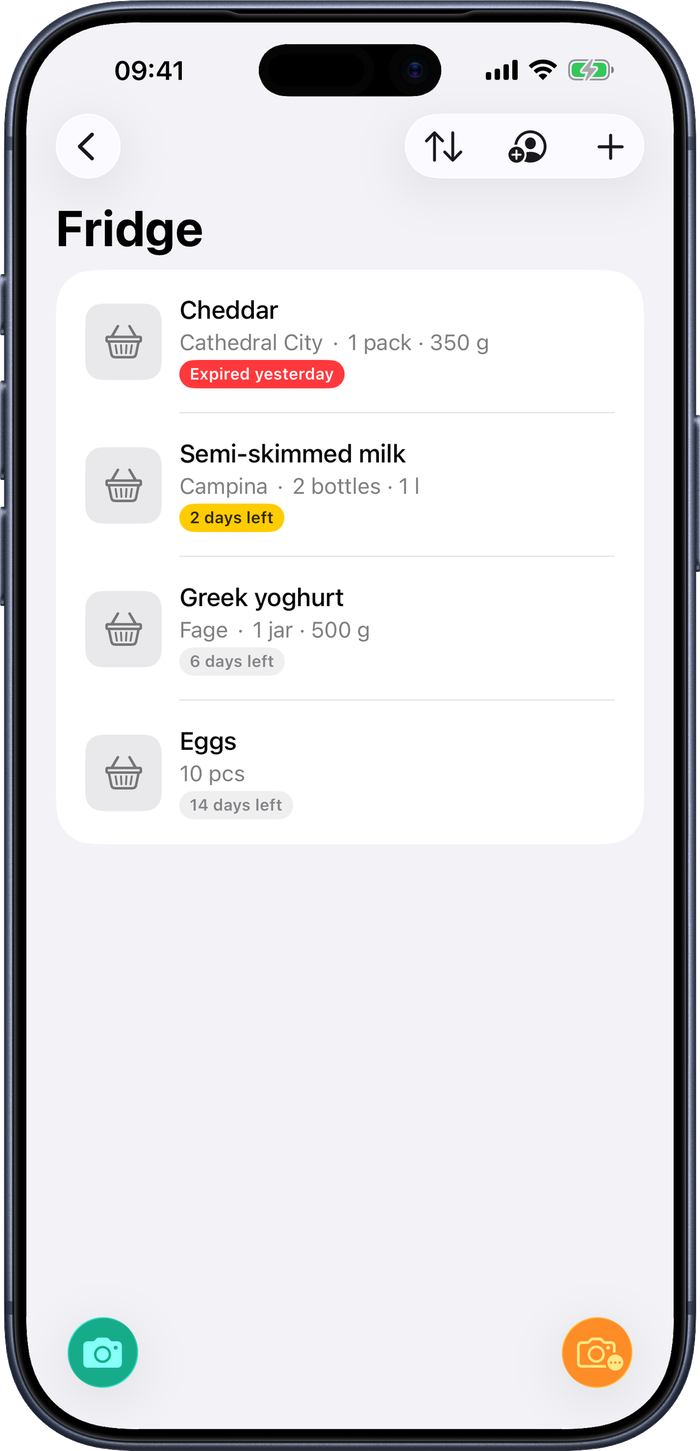
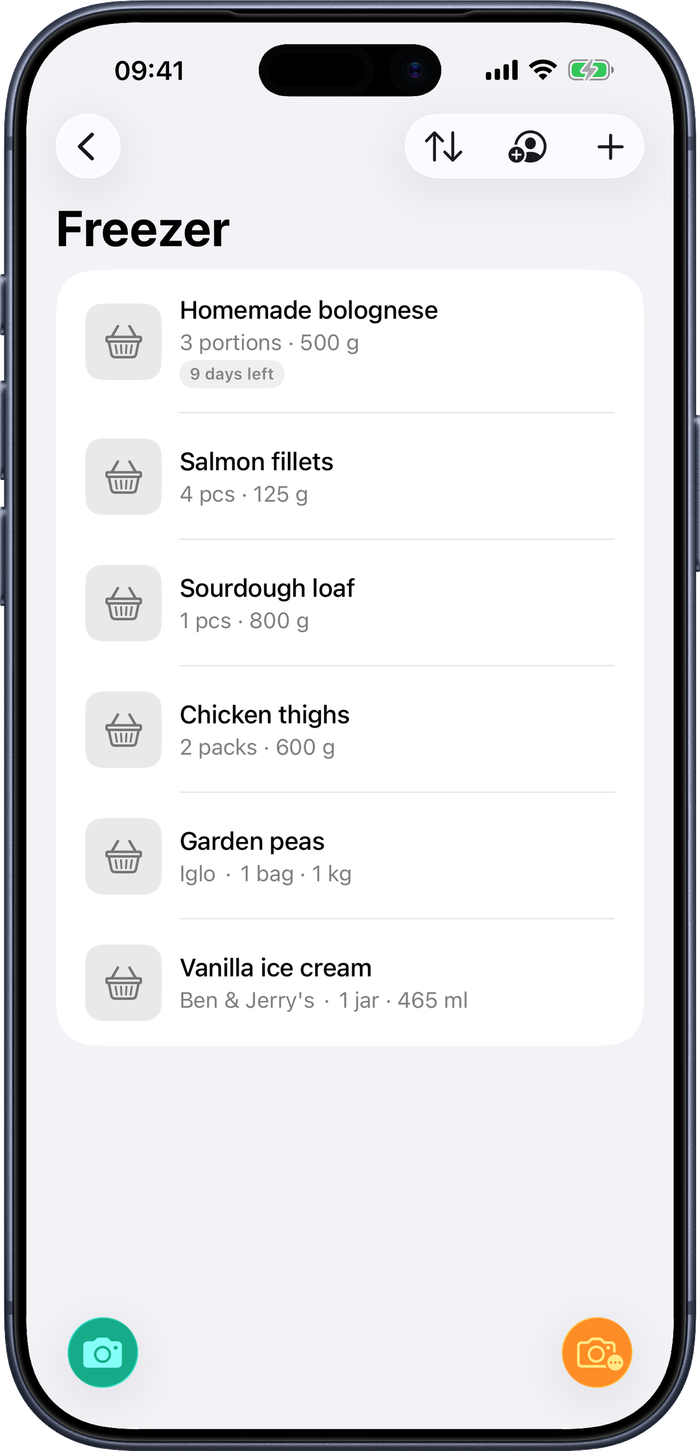
- lead SupplyBrain copy with the freezer and pantry: hero, home section, meta, closing CTA (EN and NL) - reframe the SupplyBrain screenshots from the freezer-first capture

diff --git a/index.html b/index.html
@@ -67,7 +67,7 @@
     *,*::before,*::after{box-sizing:border-box}*{margin:0}html{scroll-behavior:smooth}body{font-family:"DM Sans",sans-serif;color:#17202a;background:#f7f8f5;line-height:1.65;-webkit-font-smoothing:antialiased}img{display:block;max-width:100%}a{color:inherit;text-decoration:none}button{font:inherit}.wrap{width:min(1180px,calc(100% - 48px));margin-inline:auto}.eyebrow{font-size:.76rem;font-weight:700;letter-spacing:.14em;text-transform:uppercase;color:#506757}.section-head{display:flex;align-items:end;justify-content:space-between;gap:32px;margin-bottom:40px}.section-head h2{font:800 clamp(2rem,4vw,3.5rem)/1.05 "Manrope",sans-serif;letter-spacing:-.05em;max-width:700px}.section-head p{color:#657068;max-width:430px}.pill{display:inline-flex;align-items:center;gap:8px;padding:8px 12px;border:1px solid rgba(24,45,31,.12);border-radius:99px;font-size:.76rem;font-weight:700;letter-spacing:.05em;text-transform:uppercase;background:rgba(255,255,255,.55)}.pill::before{content:"";width:7px;height:7px;border-radius:50%;background:#5e7e67}.btn{display:inline-flex;justify-content:center;align-items:center;min-height:48px;padding:0 20px;border-radius:12px;font-weight:700;transition:transform .2s,background .2s,border-color .2s}.btn:hover{transform:translateY(-2px)}.btn-dark{background:#16231a;color:#fff}.btn-light{background:#fff;border:1px solid #dce1dc}.text-link{font-weight:700;border-bottom:1px solid currentColor;padding-bottom:2px}.skip{position:absolute;left:-9999px}.skip:focus{left:12px;top:12px;background:#fff;padding:10px;z-index:999}
     nav{position:absolute;inset:0 0 auto;z-index:10}.nav-inner{height:86px;display:flex;align-items:center;justify-content:space-between}.brand{display:flex;align-items:center;gap:12px;font:800 1rem "Manrope",sans-serif}.brand img{width:38px;height:38px;object-fit:contain}.nav-links{display:flex;align-items:center;gap:28px;list-style:none;font-size:.9rem;font-weight:600}.nav-links a{opacity:.72}.nav-links a:hover{opacity:1}.nav-contact{padding:10px 15px;border:1px solid rgba(23,32,42,.16);border-radius:10px}.menu{display:none;background:none;border:0;padding:8px;cursor:pointer}.menu span{display:block;width:23px;height:2px;background:#17202a;margin:5px}
     .hero{min-height:760px;padding:150px 0 90px;background:#e7ede5;position:relative;overflow:hidden}.hero::before{content:"";position:absolute;width:760px;height:760px;border-radius:50%;background:#d4dfd2;right:-190px;top:-280px}.hero::after{content:"";position:absolute;width:350px;height:350px;border:1px solid rgba(37,70,45,.12);border-radius:50%;right:12%;bottom:-210px}.hero-grid{position:relative;z-index:1;display:grid;grid-template-columns:1.05fr .95fr;align-items:center;gap:80px}.hero h1{font:800 clamp(3.5rem,7vw,6.4rem)/.93 "Manrope",sans-serif;letter-spacing:-.075em;max-width:730px;margin:24px 0 28px}.hero-copy>p{font-size:clamp(1.06rem,1.8vw,1.3rem);color:#4f5d53;max-width:590px}.hero-actions{display:flex;gap:12px;flex-wrap:wrap;margin-top:34px}.hero-visual{position:relative;min-height:490px}.hero-card{position:absolute;border-radius:25px;box-shadow:0 25px 70px rgba(32,50,38,.18);overflow:hidden}.hero-card img{width:100%;height:100%;object-fit:cover}.hero-card-main{inset:20px 50px 20px 0;background:#15261b;transform:rotate(-2deg);padding:22px}.hero-card-main img{object-fit:contain;border-radius:14px}.hero-card-small{width:185px;height:305px;right:0;bottom:-8px;background:#fbfcfa;padding:10px;transform:rotate(5deg)}.hero-card-small img{object-fit:cover;object-position:top;border-radius:16px}.floating-note{position:absolute;top:0;right:10px;z-index:3;background:#fff;padding:13px 16px;border-radius:14px;box-shadow:0 16px 40px rgba(32,50,38,.12);font-size:.82rem;font-weight:700}.floating-note span{color:#607267;font-weight:500;display:block}
-    .featured{padding:110px 0}.featured-card{display:grid;grid-template-columns:.92fr 1.08fr;min-height:590px;background:#17231b;color:#fff;border-radius:30px;overflow:hidden}.feature-copy{padding:64px;display:flex;flex-direction:column;align-items:start;justify-content:center}.feature-copy .eyebrow{color:#9bb2a0}.feature-copy h3{font:800 clamp(2.6rem,5vw,4.5rem)/1 "Manrope",sans-serif;letter-spacing:-.055em;margin:16px 0}.feature-copy>p{color:#c4cec7;font-size:1.12rem;max-width:470px}.feature-list{display:flex;flex-wrap:wrap;gap:8px;margin:30px 0 35px}.feature-list span{padding:7px 11px;background:rgba(255,255,255,.08);border-radius:99px;font-size:.78rem}.feature-copy .btn{background:#f7f8f5;color:#17231b}.feature-image{display:flex;align-items:center;justify-content:center;padding:50px;background:radial-gradient(circle at 50% 45%,#557460 0,#2b4433 45%,#203027 70%)}.feature-image img{filter:drop-shadow(0 28px 36px rgba(0,0,0,.38));max-height:490px;object-fit:contain}.feature-image.paw{background:radial-gradient(circle at 50% 45%,#2c5480 0,#20395b 55%,#182b45 100%)}.feature-image.paw img{border-radius:18px}.feature-image.pdp{background:radial-gradient(circle at 50% 45%,#a8735a 0,#6e4636 55%,#452b21 100%)}.feature-image.pdp img{border-radius:18px}.feature-image.sb{gap:18px;background:radial-gradient(circle at 50% 45%,#2fae98 0,#0e7a6a 55%,#0a4f45 100%)}.feature-image.sb img{border-radius:18px;max-width:calc(50% - 9px);min-width:0}
+    .featured{padding:110px 0}.featured-card{display:grid;grid-template-columns:.92fr 1.08fr;min-height:590px;background:#17231b;color:#fff;border-radius:30px;overflow:hidden}.feature-copy{padding:64px;display:flex;flex-direction:column;align-items:start;justify-content:center}.feature-copy .eyebrow{color:#9bb2a0}.feature-copy h3{font:800 clamp(2.6rem,5vw,4.5rem)/1 "Manrope",sans-serif;letter-spacing:-.055em;margin:16px 0}.feature-copy>p{color:#c4cec7;font-size:1.12rem;max-width:470px}.feature-list{display:flex;flex-wrap:wrap;gap:8px;margin:30px 0 35px}.feature-list span{padding:7px 11px;background:rgba(255,255,255,.08);border-radius:99px;font-size:.78rem}.feature-copy .btn{background:#f7f8f5;color:#17231b}.feature-image{display:flex;align-items:center;justify-content:center;padding:50px;background:radial-gradient(circle at 50% 45%,#557460 0,#2b4433 45%,#203027 70%)}.feature-image img{filter:drop-shadow(0 28px 36px rgba(0,0,0,.38));max-height:490px;object-fit:contain}.feature-image.paw{background:radial-gradient(circle at 50% 45%,#2c5480 0,#20395b 55%,#182b45 100%)}.feature-image.paw img{border-radius:18px}.feature-image.pdp{background:radial-gradient(circle at 50% 45%,#a8735a 0,#6e4636 55%,#452b21 100%)}.feature-image.pdp img{border-radius:18px}.feature-image.sb{gap:18px;background:radial-gradient(circle at 50% 45%,#2fae98 0,#0e7a6a 55%,#0a4f45 100%)}.feature-image.sb img{max-width:calc(50% - 9px);min-width:0}
     .apps{padding:20px 0 115px}.app-grid{display:grid;grid-template-columns:repeat(3,1fr);gap:22px}.app-card{display:flex;flex-direction:column;background:#fff;border:1px solid #e2e5e0;border-radius:22px;overflow:hidden;transition:transform .25s,box-shadow .25s}.app-card:hover{transform:translateY(-5px);box-shadow:0 24px 55px rgba(24,45,31,.1)}.app-art{height:280px;padding:25px;position:relative;overflow:hidden}.app-art img{height:100%;width:100%;object-fit:contain;position:relative;z-index:1;filter:drop-shadow(0 18px 25px rgba(0,0,0,.18))}.app-art.pdp{background:#f2ebe5}.app-art.paw{background:#e9eee6}.app-art.catchmatch{background:#fbe9e7}.app-art.claudget{background:#fbefe4}.app-art.ghostplug{background:#eceafb}.abstract-icon{height:100%;display:grid;place-items:center;position:relative}.abstract-icon .glyph{width:130px;height:130px;border-radius:30px;display:grid;place-items:center;font:800 3rem "Manrope";box-shadow:0 20px 35px rgba(35,42,56,.2)}.unfold .glyph{background:linear-gradient(145deg,#333849,#11141c);color:#e6e8f2}.unfold .glyph::after{content:"";width:42px;height:54px;border:4px solid currentColor;border-top-width:13px;border-radius:7px}.paw .glyph{background:linear-gradient(145deg,#738b68,#2e4934);color:#fff}.paw .glyph::after{content:"●  ●";letter-spacing:9px;font-size:1.1rem}.listsweep .glyph{background:linear-gradient(145deg,#3a7bd5,#0a84ff);color:#fff}.listsweep .glyph::after{content:"↺";font-size:3.4rem;font-weight:300;line-height:1}.app-body{padding:27px;display:flex;flex-direction:column;flex:1}.app-top{display:flex;justify-content:space-between;align-items:center;gap:12px}.app-body h3{font:800 1.5rem "Manrope";letter-spacing:-.035em}.app-body>p{color:#667169;margin:13px 0 24px}.app-body .text-link{margin-top:auto;align-self:flex-start}.status{white-space:nowrap;font-size:.7rem;font-weight:700;text-transform:uppercase;letter-spacing:.08em;color:#5e7164}.status.live{color:#24653a}.app-card.clickable{position:relative;cursor:pointer}.app-card.clickable .text-link::after{content:"";position:absolute;inset:0;z-index:2;border-radius:22px}.app-card.clickable:focus-within{outline:3px solid #506757;outline-offset:3px}.app-card.clickable .text-link:focus{outline:none}.other-apps{padding-bottom:40px}
     .app-card.sd{background:#101412;border-color:#1f2622}.app-card.sd:hover{box-shadow:0 24px 55px rgba(120,24,16,.28),0 0 0 1px rgba(214,92,58,.35)}.app-art.sd-art{padding:0;background:#101412}.app-art.sd-art img{position:absolute;inset:0;width:100%;height:100%;object-fit:cover;filter:none;transform:scale(1.02);transition:transform 1.2s ease,filter .6s}.app-art.sd-art::after{content:"";position:absolute;inset:0;background:linear-gradient(180deg,rgba(16,20,18,0) 55%,#101412 100%)}.app-card.sd:hover .sd-art img{transform:scale(1.09);filter:saturate(1.15) brightness(1.05)}.app-card.sd h3{color:#fff}.app-card.sd .app-body>p{color:#b5bdb6}.app-card.sd .text-link{color:#fff;border-bottom-color:#e0553a}.app-card.sd:hover .text-link{color:#ffb39c}.sd-status{display:inline-flex;align-items:center;gap:7px;color:#d98b6f}.sd-status i{width:7px;height:7px;border-radius:50%;background:#e0553a;animation:heartbeat 1.6s infinite}@keyframes heartbeat{0%{box-shadow:0 0 0 0 rgba(224,85,58,.6)}70%{box-shadow:0 0 0 8px rgba(224,85,58,0)}100%{box-shadow:0 0 0 0 rgba(224,85,58,0)}}
     .ls-list{position:relative;width:min(250px,80%);margin:0 auto;height:100%;background:#fff;border-radius:18px;box-shadow:0 22px 40px rgba(40,60,90,.16);padding:18px 18px 0;overflow:hidden}.ls-title{font:800 1rem "Manrope";color:#1c2330;margin-bottom:10px;display:flex;justify-content:space-between}.ls-title span{font:600 .72rem "DM Sans";color:#f07d2e}.ls-row{display:flex;align-items:center;gap:11px;padding:9px 0;border-bottom:1px solid #eef0f4;font-size:.86rem;color:#9aa2ae}.ls-row i{flex:none;width:18px;height:18px;border-radius:50%;border:2px solid #f07d2e;background:#f07d2e;box-shadow:inset 0 0 0 3px #fff;transition:background .3s,box-shadow .3s}.ls-row b{font-weight:500;text-decoration:line-through;text-decoration-color:#c3c9d2;transition:color .3s}.ls-reset{position:absolute;right:16px;bottom:16px;width:46px;height:46px;border-radius:50%;background:linear-gradient(145deg,#f39a3d,#ec6a2a);color:#fff;display:grid;place-items:center;font-size:1.5rem;box-shadow:0 10px 20px rgba(236,106,42,.35);transition:transform .7s cubic-bezier(.3,1.4,.5,1)}.app-card:hover .ls-row i{background:#fff;box-shadow:inset 0 0 0 3px #fff}.app-card:hover .ls-row b{color:#1c2330;text-decoration-color:transparent}.app-card:hover .ls-reset{transform:rotate(-360deg)}.ls-row:nth-child(3) i,.ls-row:nth-child(3) b{transition-delay:.08s}.ls-row:nth-child(4) i,.ls-row:nth-child(4) b{transition-delay:.16s}.ls-row:nth-child(5) i,.ls-row:nth-child(5) b{transition-delay:.24s}.ls-row:nth-child(6) i,.ls-row:nth-child(6) b{transition-delay:.32s}.app-art.listsweep{background:linear-gradient(160deg,#fdf1e6,#f6e3d3)}
@@ -121,10 +121,10 @@
 
     <section class="featured">
       <div class="wrap">
-        <div class="section-head"><div><span class="eyebrow">Beta open</span><h2>Meet SupplyBrain.</h2></div><p>Know what is in your fridge, freezer and pantry without typing a thing.</p></div>
+        <div class="section-head"><div><span class="eyebrow">Beta open</span><h2>Meet SupplyBrain.</h2></div><p>Know what is in your freezer and pantry without digging, or typing a thing.</p></div>
         <article class="featured-card">
           <div class="feature-copy"><span class="eyebrow">For iPhone &amp; iPad</span><h3>Snap it. It is stocked.</h3><p>Snap a product and SupplyBrain fills in the name, weight and best-before date on your device. Snap what you took out and it updates the stock. With Plus, share containers with a QR code, no accounts needed.</p><div class="feature-list"><span>Snap to add</span><span>Snap to remove</span><span>Expiry reminders</span><span>Widgets</span><span>Share by QR code</span><span>Private</span></div><a class="btn" href="supplybrain/">Discover SupplyBrain →</a></div>
-          <div class="feature-image sb"><img src="assets/apps/supplybrain/en-01-home.jpg" alt="SupplyBrain home screen with fridge, freezer and pantry" loading="lazy" width="700" height="1500"><img src="assets/apps/supplybrain/en-06-scan-add-review.jpg" alt="SupplyBrain add item screen filled in from a photo" loading="lazy" width="700" height="1500"></div>
+          <div class="feature-image sb"><img src="assets/apps/supplybrain/en-01-home.png" alt="SupplyBrain home screen with freezer, pantry and fridge" loading="lazy" width="700" height="1451"><img src="assets/apps/supplybrain/en-06-scan-add-review.png" alt="SupplyBrain add item screen filled in from a photo" loading="lazy" width="700" height="1451"></div>
         </article>
       </div>
     </section>

diff --git a/supplybrain/index.html b/supplybrain/index.html
@@ -3,14 +3,14 @@
 <head>
   <meta charset="utf-8">
   <meta name="viewport" content="width=device-width, initial-scale=1">
-  <title data-i18n="meta.title">SupplyBrain — Know what is in your fridge, freezer and pantry</title>
-  <meta name="description" content="SupplyBrain keeps stock of your fridge, freezer and pantry. Snap a product and on-device Apple Intelligence fills in the name, weight and best-before date. Share with a QR code. Private, no accounts." data-i18n-attr="content:meta.description">
+  <title data-i18n="meta.title">SupplyBrain — Know what is in your freezer and pantry</title>
+  <meta name="description" content="SupplyBrain keeps stock of your freezer, pantry and fridge. Snap a product and on-device Apple Intelligence fills in the name, weight and best-before date. Share with a QR code. Private, no accounts." data-i18n-attr="content:meta.description">
   <link rel="canonical" href="https://michelstorms.com/supplybrain/">
 
   <link rel="icon" type="image/png" href="../assets/apps/supplybrain/icon.png">
   <link rel="apple-touch-icon" href="../assets/apps/supplybrain/icon.png">
 
-  <meta property="og:title" content="SupplyBrain — Know what is in your fridge, freezer and pantry">
+  <meta property="og:title" content="SupplyBrain — Know what is in your freezer and pantry">
   <meta property="og:description" content="Snap a product and SupplyBrain fills in the name, weight and best-before date on your device. Share containers with a QR code. Private, with no accounts.">
   <meta property="og:url" content="https://michelstorms.com/supplybrain/">
   <meta property="og:site_name" content="Michel Storms">
@@ -21,7 +21,7 @@
   <meta property="og:image:alt" content="SupplyBrain app icon, name and home screen on a green background">
 
   <meta name="twitter:card" content="summary_large_image">
-  <meta name="twitter:title" content="SupplyBrain — Know what is in your fridge, freezer and pantry">
+  <meta name="twitter:title" content="SupplyBrain — Know what is in your freezer and pantry">
   <meta name="twitter:description" content="Snap a product and SupplyBrain fills in the name, weight and best-before date on your device. Share containers with a QR code. Private, with no accounts.">
   <meta name="twitter:image" content="https://michelstorms.com/assets/apps/supplybrain/og.jpg">
   <meta name="twitter:image:alt" content="SupplyBrain app icon, name and home screen on a green background">
@@ -213,9 +213,7 @@
     .shots img {
       width: 100%;
       height: auto;
-      border-radius: 22px;
-      border: 1px solid rgba(255, 255, 255, 0.12);
-      box-shadow: 0 18px 40px rgba(0, 0, 0, 0.35);
+      filter: drop-shadow(0 18px 30px rgba(0, 0, 0, 0.35));
     }
 
     /* ===== Sections ===== */
@@ -430,7 +428,7 @@
       <img class="hero-icon" src="../assets/apps/supplybrain/icon.png" alt="SupplyBrain app icon" width="108" height="108" data-i18n-attr="alt:hero.icon_alt">
       <span class="hero-label" data-i18n="hero.label">iPhone &amp; iPad</span>
       <h1>SupplyBrain</h1>
-      <p data-i18n="hero.subtitle">Keep stock of your fridge, freezer, pantry and any container you name. Snap a product and your device fills in the name, weight and best-before date.</p>
+      <p data-i18n="hero.subtitle">Batch-cooked meals, bulk buys, the third jar of the same spice: keep stock of your freezer, pantry, fridge and any container you name. Snap a product and your device fills in the name, weight and best-before date.</p>
       <div class="hero-buttons">
         <a class="btn btn-primary" href="https://testflight.apple.com/join/GaTrr85r" target="_blank" rel="noopener noreferrer" data-i18n="hero.beta">Join the beta</a>
         <!-- APP STORE BADGE: hidden until SupplyBrain is live. At launch, delete the `hidden` attribute
@@ -447,10 +445,10 @@
   <section class="showcase">
     <div class="container">
       <div class="shots">
-        <img src="../assets/apps/supplybrain/en-01-home.jpg" alt="Home screen listing the fridge, freezer and pantry with items expiring soon" width="700" height="1500" loading="lazy" data-i18n-attr="src:shot1.src;alt:shot1.alt">
-        <img src="../assets/apps/supplybrain/en-06-scan-add-review.jpg" alt="Add item screen with name, amount, weight and best-before date filled in from a photo" width="700" height="1500" loading="lazy" data-i18n-attr="src:shot2.src;alt:shot2.alt">
-        <img src="../assets/apps/supplybrain/en-08-scan-remove-review.jpg" alt="Snap to remove screen matching a photographed product to a stock line" width="700" height="1500" loading="lazy" data-i18n-attr="src:shot3.src;alt:shot3.alt">
-        <img src="../assets/apps/supplybrain/en-02-container.jpg" alt="A container with its items and best-before dates" width="700" height="1500" loading="lazy" data-i18n-attr="src:shot4.src;alt:shot4.alt">
+        <img src="../assets/apps/supplybrain/en-01-home.png" alt="Home screen listing the freezer, pantry and fridge with items expiring soon" width="700" height="1451" loading="lazy" data-i18n-attr="src:shot1.src;alt:shot1.alt">
+        <img src="../assets/apps/supplybrain/en-06-scan-add-review.png" alt="Add item screen with name, amount, weight and best-before date filled in from a photo" width="700" height="1451" loading="lazy" data-i18n-attr="src:shot2.src;alt:shot2.alt">
+        <img src="../assets/apps/supplybrain/en-08-scan-remove-review.png" alt="Snap to remove screen matching a photographed product to a stock line" width="700" height="1451" loading="lazy" data-i18n-attr="src:shot3.src;alt:shot3.alt">
+        <img src="../assets/apps/supplybrain/en-02-container.png" alt="A container with its items and best-before dates" width="700" height="1451" loading="lazy" data-i18n-attr="src:shot4.src;alt:shot4.alt">
       </div>
     </div>
   </section>
@@ -533,7 +531,7 @@
   <section class="cta">
     <div class="container">
       <span class="section-label" data-i18n="cta.label">Get SupplyBrain</span>
-      <h2 class="section-title" data-i18n="cta.title">Never wonder what is in the back of the fridge</h2>
+      <h2 class="section-title" data-i18n="cta.title">Never dig through the freezer again</h2>
       <p class="section-subtitle" data-i18n="cta.subtitle">Try the beta on TestFlight today. The App Store release is on its way.</p>
       <div class="hero-buttons">
         <a class="btn btn-primary" href="https://testflight.apple.com/join/GaTrr85r" target="_blank" rel="noopener noreferrer" data-i18n="cta.beta">Join the beta</a>
@@ -574,14 +572,14 @@
       "features.f5.desc": "Zet een widget op je beginscherm voor elke container, met Foto toevoegen en Foto verwijderen binnen één tik.",
       "features.f6.title": "Privé van opzet",
       "features.f6.desc": "Geen accounts, geen servers, geen tracking. Herkenning draait op je toestel en er wordt niets verzameld. In het Nederlands en Engels.",
-      "shot1.alt": "Beginscherm met koelkast, diepvries en voorraadkast en producten die bijna verlopen",
-      "shot1.src": "../assets/apps/supplybrain/nl-01-home.jpg",
+      "shot1.alt": "Beginscherm met diepvries, voorraadkast en koelkast en producten die bijna verlopen",
+      "shot1.src": "../assets/apps/supplybrain/nl-01-home.png",
       "shot2.alt": "Scherm Product toevoegen met naam, aantal, gewicht en houdbaarheidsdatum ingevuld vanuit een foto",
-      "shot2.src": "../assets/apps/supplybrain/nl-06-scan-add-review.jpg",
+      "shot2.src": "../assets/apps/supplybrain/nl-06-scan-add-review.png",
       "shot3.alt": "Scherm Foto verwijderen dat een gefotografeerd product koppelt aan een voorraadregel",
-      "shot3.src": "../assets/apps/supplybrain/nl-08-scan-remove-review.jpg",
+      "shot3.src": "../assets/apps/supplybrain/nl-08-scan-remove-review.png",
       "shot4.alt": "Een container met producten en houdbaarheidsdata",
-      "shot4.src": "../assets/apps/supplybrain/nl-02-container.jpg",
+      "shot4.src": "../assets/apps/supplybrain/nl-02-container.png",
       "price.free.1": "Tot 30 producten",
       "price.free.2": "3 containers",
       "price.free.3": "10 fotoscans",
@@ -590,7 +588,7 @@
       "price.plus.3": "Dekt ook de containers die je deelt",
       "price.plus.4": "Delen met gezin",
       "hero.label": "iPhone &amp; iPad",
-      "hero.subtitle": "Houd de voorraad bij van je koelkast, diepvries, voorraadkast en elke container die je een naam geeft. Maak een foto en je toestel vult naam, gewicht en houdbaarheidsdatum in.",
+      "hero.subtitle": "Zelfgekookte porties, grootverpakkingen, het derde potje van hetzelfde kruid: houd de voorraad bij van je diepvries, voorraadkast, koelkast en elke container die je een naam geeft. Maak een foto en je toestel vult naam, gewicht en houdbaarheidsdatum in.",
       "hero.beta": "Doe mee met de bèta",
       "hero.note": "Binnenkort in de App Store. Vereist iOS 26 of iPadOS 26.",
       "features.label": "Functies",
@@ -605,15 +603,15 @@
       "price.plus.price": "$19,99 per jaar met 7 dagen gratis proef, $3,99 per maand, of eenmalig $49,99 voor het leven.",
       "price.note": "Prijzen in Amerikaanse dollar; je App Store toont de prijs voor jouw land.",
       "cta.label": "Haal SupplyBrain",
-      "cta.title": "Vraag je nooit meer af wat achterin de koelkast staat",
+      "cta.title": "Nooit meer graven in de diepvries",
       "cta.subtitle": "Probeer de bèta vandaag via TestFlight. De App Store-versie komt eraan.",
       "cta.beta": "Doe mee met de bèta",
       "footer.rights": "&copy; 2026 Michel Storms. Alle rechten voorbehouden.",
       "footer.terms": "Gebruiksvoorwaarden",
       "footer.privacy": "Privacybeleid",
       "footer.support": "Ondersteuning",
-      "meta.title": "SupplyBrain — Weet wat er in je koelkast, diepvries en voorraadkast zit",
-      "meta.description": "SupplyBrain houdt de voorraad van je koelkast, diepvries en voorraadkast bij. Maak een foto en Apple Intelligence op je toestel vult naam, gewicht en houdbaarheidsdatum in. Deel met een QR-code. Privé, zonder accounts.",
+      "meta.title": "SupplyBrain — Weet wat er in je diepvries en voorraadkast zit",
+      "meta.description": "SupplyBrain houdt de voorraad van je diepvries, voorraadkast en koelkast bij. Maak een foto en Apple Intelligence op je toestel vult naam, gewicht en houdbaarheidsdatum in. Deel met een QR-code. Privé, zonder accounts.",
       "nav.home": "Home",
       "nav.apps": "Apps",
       "nav.blog": "Blog",
